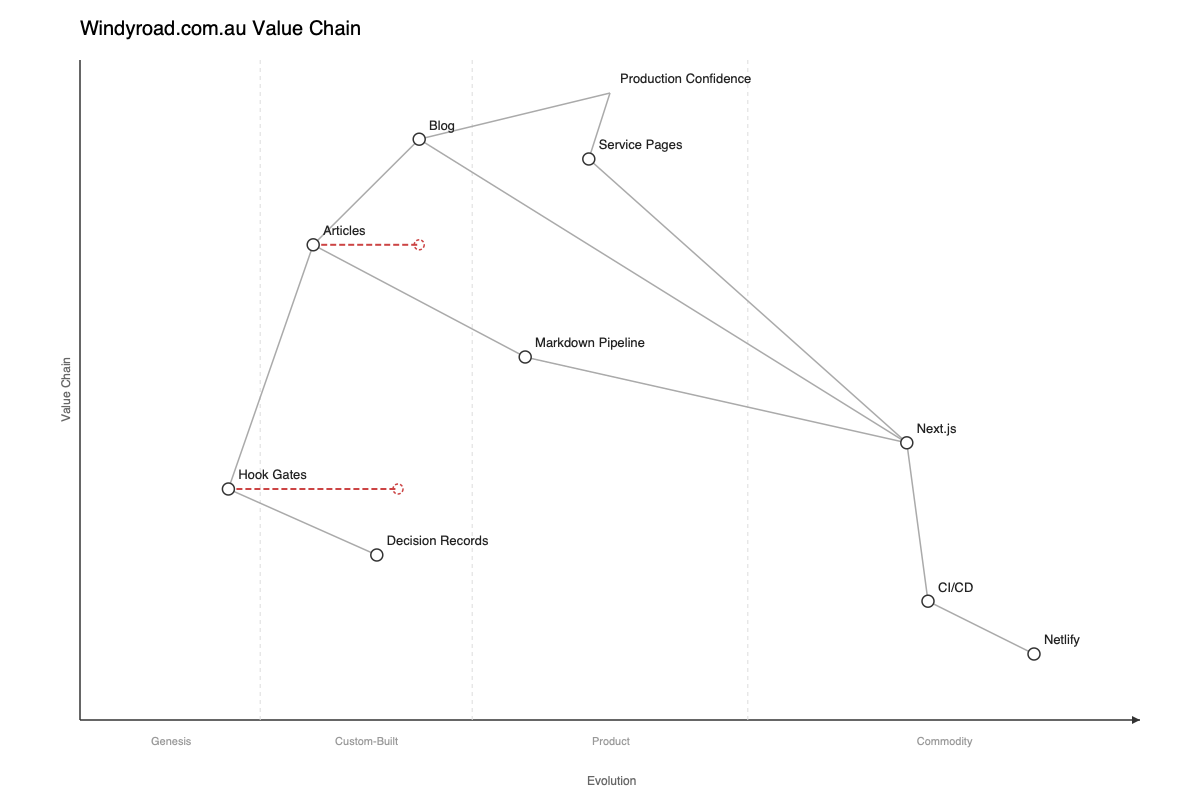
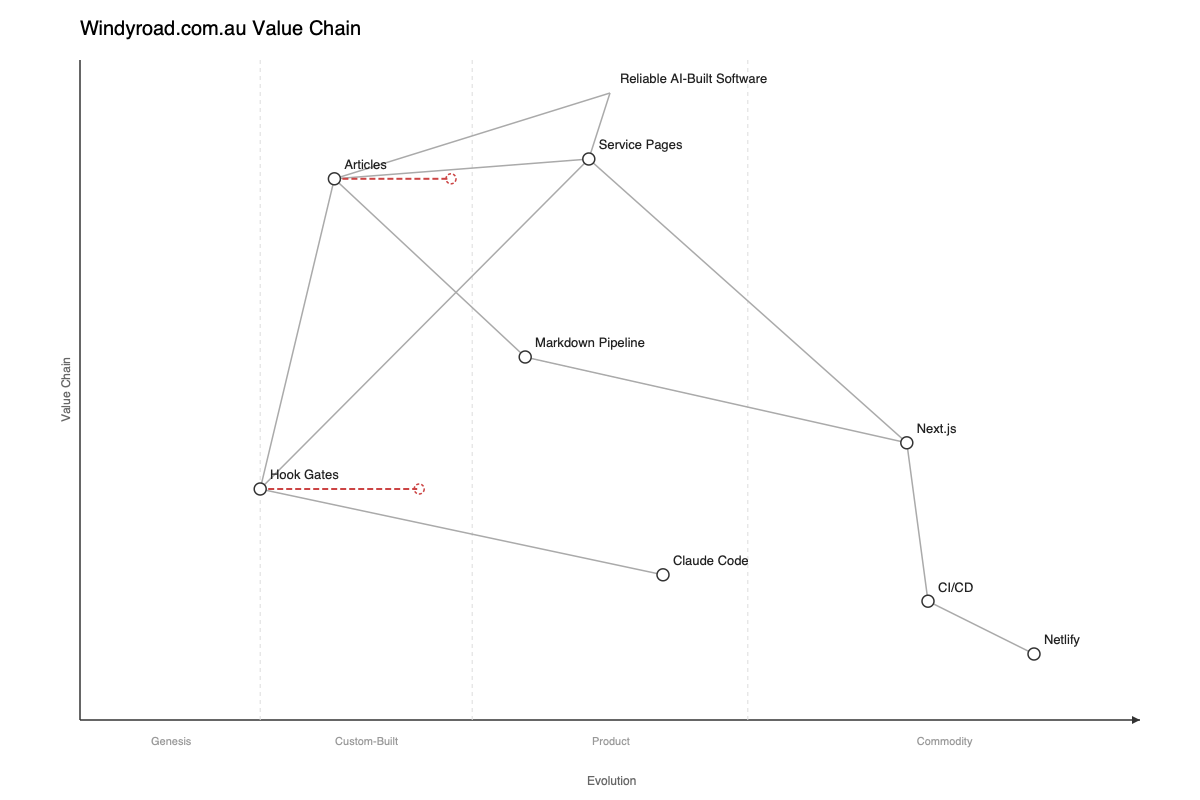
feat: improve /wardley skill quality rules and update Wardley Map
Skill improvements: anchor self-test and need-vs-means validation,
investment independence merge test, platform dependency detection,
inertia check, user-facing pair check, orphan check, and analysis
quality rules (no inventory, convergence fragility, dependency
multipliers, internal risk with number+time triggers, observable
go/reassess decision triggers, visible dependency coverage).

Map updates: anchor renamed to "Reliable AI-Built Software", Blog
merged into Articles, Decision Records removed, Claude Code added
as platform dependency, Service Pages->Articles and Service
Pages->Hook Gates dependencies added.

diff --git a/.claude/skills/wardley/SKILL.md b/.claude/skills/wardley/SKILL.md
@@ -21,6 +21,10 @@ Analyze the codebase and generate a Wardley Map of the project's value chain.
 
 Read the project's README, homepage, main entry point, or package description to determine what need the project serves. The anchor must be a specific need, not a person. "Software delivery insight" not "Reader". "Real-time cricket stats" not "User". The anchor should distinguish this project from others.
 
+**Self-test:** If two different projects could share this anchor, it is too generic. The anchor should answer "what does someone come to this project to get?" not "what topic does this project cover?"
+
+**Need vs means:** The anchor should be an outcome the user *has* after they leave, not a capability the provider *offers*. If the anchor sounds like a service description (expertise, guidance, consulting), rewrite it as the result: "AI Delivery Expertise" becomes "Reliable AI-Built Software." "Analytics consulting" becomes "Data-driven decisions."
+
 ### 2. Inventory the codebase
 
 Scan the project to identify components. Look for:
@@ -33,6 +37,8 @@ Scan the project to identify components. Look for:
 - **Dependencies**: frameworks, libraries, external services
 
 Adapt the scan to the project type. A web app has pages and components. An API has endpoints and middleware. A CLI has commands and parsers. A library has modules and public API surface.
+
+**Platform dependencies:** For each custom or genesis component, identify which platform or API it depends on that the project does not control. If that platform does not appear in the inventory, add it as a component.
 
 ### 3. Classify evolution
 
@@ -54,7 +60,7 @@ Visibility (y-axis): 1.0 = directly serves the user need, 0.0 = deep infrastruct
 Aim for 8 to 12 components. Rules:
 
 - **Split** when two things have different evolution positions (one custom, one commodity) or different strategic roles (one differentiates, one is plumbing).
-- **Merge** when two things are at the same evolution stage and serve the same strategic purpose.
+- **Merge** when two things are at the same evolution stage and serve the same strategic purpose. **Test:** can you invest in A independently of B? If not, they are one component.
 - Every component should earn its place. If removing it from the map loses no information, remove it.
 
 ### 6. Identify evolution movement
@@ -68,9 +74,13 @@ For each component, ask: is this evolving? Signs of evolution:
 
 Add `evolve` annotations for components that are actively moving.
 
+**Inertia check:** For commodity components, note switching cost (high or low). For custom components, note whether competitors or the ecosystem are building similar things. Use these observations in the Risk section of the analysis.
+
 ### 7. Map dependencies
 
 A->B means "A needs B to function." Not "A influences B" or "A produces B." Only draw links that represent real runtime or build-time dependencies. Fewer lines with clear meaning beats many lines that add noise.
+
+**User-facing pair check:** For every pair of components with visibility above 0.7, ask: does one need the other to get traffic, data, or users? If articles drive traffic that service pages convert, that is a dependency even though both connect to the anchor.
 
 ### 8. Generate the OWM file
 
@@ -106,6 +116,8 @@ Read the generated PNG and check:
 
 If the map has issues, adjust positions in the OWM file and re-render.
 
+**Orphan check:** Look for components with only one inbound link and no outbound links. Ask whether removing them loses strategic information. If not, remove them and re-render.
+
 ### 11. Write the analysis
 
 Write `docs/wardley-map.md` with the following structure:
@@ -118,10 +130,10 @@ Write `docs/wardley-map.md` with the following structure:
 ## Analysis
 
 ### Differentiation
-(Which components are custom/genesis? These are the competitive advantage.)
+(Which components are custom/genesis? These are the competitive advantage. If multiple components depend on the same custom component, note that convergence is also concentration risk. State what would happen if that component became untenable.)
 
 ### Evolution
-(What is moving? In which direction? What does that mean for investment?)
+(What is moving? In which direction? What does that mean for investment? Check whether any evolving component has dependents that amplify its impact. If A depends on B and B is evolving, investment in B has a multiplier effect. Name the multiplier.)
 
 ### Risk
 (Which custom components could be replaced by commodities? Which commodities could change?)
@@ -131,6 +143,18 @@ Write `docs/wardley-map.md` with the following structure:
 ```
 
 The image path should be relative to `docs/` since the PNG lives in the same directory. Keep the analysis concise and actionable. Each section should be 2 to 4 sentences.
+
+**Analysis quality rules:**
+
+- **No inventory.** Do not list component counts, script counts, or file counts. State what the position *means* for investment, risk, or action.
+- **Name the phase correctly.** When describing a component's current position, use the phase name matching its current evolution value, not its evolve target. Check against the phase boundary table.
+- **Risk needs triggers.** For each risk, name what would cause it (the trigger) and what breaks (the consequence). "Low risk" is not analysis.
+- **At most two decisions.** The Decisions section should identify at most two strategic choices and state them as trade-offs. If two actions compete for the same resource, say so. Do not write a shopping list.
+- **State evidence for recommendations.** If you recommend an action (e.g. "ready to be packaged"), say what evidence supports it and what would need to be true first.
+- **End with implications.** Every section must end with a sentence stating what the project owner should do differently, protect, or watch as a result. Description without implication is not analysis.
+- **Include internal risk.** The Risk section must include at least one risk the project owner controls, such as underinvestment in a differentiating component. External risks (API changes, pricing shifts) are not sufficient alone. Internal risk triggers must include a number and a time window. "Output drops" is not a trigger. "Fewer than N per month for M consecutive months" is.
+- **Observable triggers.** Each decision's trigger must be observable and specific: a number, an event, or a condition you could check. "When external interest validates" is not observable. "When three people outside this project ask to reuse the pattern" is. Each decision should have both a go trigger (what would make you act) and a reassess trigger (what would make you reconsider the strategy if the go trigger never fires).
+- **Cover visible dependencies.** Every dependency between components with visibility above 0.7 must be mentioned in the analysis. If a link appears on the map but not in the text, either remove the link or explain why it matters.
 
 ## Updating an existing map
 

diff --git a/docs/wardley-map.md b/docs/wardley-map.md
@@ -6,16 +6,16 @@
 
 ### Differentiation
 
-Articles and Hook Gates are the two genesis/custom components. Articles are original insights about AI-assisted software delivery that no one else is publishing. Hook Gates (architect, voice-and-tone, accessibility enforcement) are a novel four-hook pattern with no off-the-shelf equivalent. These two reinforce each other: the gates produce the practices, the articles document them.
+Articles and Hook Gates are the only components a competitor cannot buy off the shelf. Both the content arm (Articles) and the consulting arm (Service Pages) depend on Hook Gates as their core method -- articles need the practices as subject matter, consulting needs them to deliver results. This convergence makes Hook Gates the single highest-leverage component, but also a single point of fragility: if the pattern becomes untenable, both revenue streams lose their foundation. Protect Hook Gates by keeping it portable across Claude Code versions and by documenting the pattern abstractly enough that it could survive an API change.
 
 ### Evolution
 
-Hook Gates are moving from Genesis (0.14) toward Custom-Built (0.30) as the pattern gets documented in articles and reused across projects. Articles are evolving from Genesis (0.22) toward Custom-Built (0.32) as the content matures from experimental posts into a recognisable body of work. If others adopt the hook gate pattern, it moves further toward Product.
+Hook Gates sit at the Genesis/Custom-Built boundary, evolving toward Custom-Built as the pattern expands to new enforcement domains. Articles are early Custom-Built, maturing from experimental posts into a coherent series. Service Pages depend on Articles for traffic (the map shows Service Pages->Articles), which means article investment has a multiplier effect: each article strengthens both the content arm and the sales pipeline. Prioritise article topics that demonstrate Hook Gates in new domains, since that advances both components simultaneously.
 
 ### Risk
 
-Next.js (Commodity, 0.78) is low risk but high switching cost due to static export dependency. Netlify (Commodity, 0.90) is easily replaceable with any static host. Service Pages (Product, 0.48) follow standard consulting sales patterns and depend on the Blog driving traffic to convert. The main risk is underinvesting in Articles, since they are the primary differentiator and traffic driver.
+Hook Gates depend on Claude Code (Product, 0.55), which is controlled by Anthropic and has no equivalent with the same hook API. If the hook API changes, Hook Gates need rewriting and published articles referencing specific hook behaviour become outdated -- both differentiators are hit simultaneously. Internally, if article output drops below one new post per month for two consecutive months, the reinforcing loop between practice and content stalls: traffic declines, consulting leads dry up, and there is less pressure to develop new hook patterns. The internal risk is the one the project owner controls and should monitor first.
 
 ### Decisions
 
-Blog and Service Pages serve different strategic roles. Blog is the differentiator (Custom-Built); Service Pages are standard sales (Product). Investment in articles has higher strategic leverage than investment in sales page refinement. The gap between Hook Gates (Genesis) and the rest of the map suggests the pattern could become a distributable product (a Claude Code plugin or template repo) if it continues to mature.
+Articles and Hook Gates packaging compete for the same resource: time. Both arms of the business depend on Hook Gates, which is evidence the pattern has real value worth extracting. But packaging should wait until the pattern is adopted by at least one project outside this codebase -- until then, articles have higher leverage because they create the audience and credibility that would make a packaged product viable. If no external adoption has occurred by the time the article series reaches fifteen posts, revisit whether the pattern's value is too context-specific to package.

diff --git a/.changeset/wardley-skill-improvements.md b/.changeset/wardley-skill-improvements.md
@@ -2,4 +2,4 @@
 "windy-road": patch
 ---
 
-Improve /wardley skill with project-agnostic guidance, evolution arrows, and strategic analysis
+Improve /wardley skill with anchor validation, merge tests, analysis quality rules, platform dependency detection, convergence fragility checks, and observable decision triggers. Update Wardley Map with revised anchor, merged components, Claude Code dependency, and strategic analysis.
